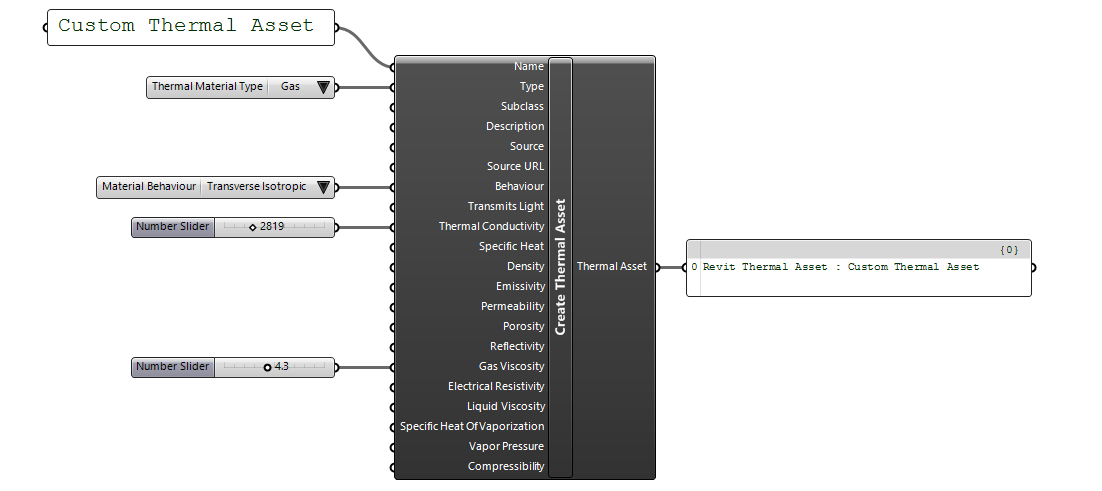
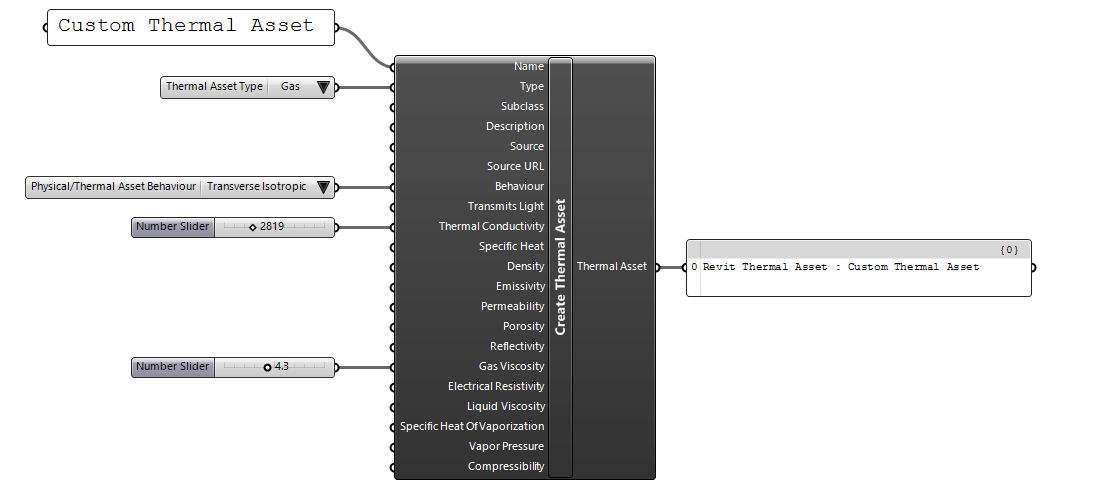
corrected the value picker names for physcial and thermal assets

Changed region(s): [[0.0, 0.3666, 0.1234, 0.4277], [0.1234, 0.1527, 0.216, 0.2138]]

diff --git a/src/RhinoInside.Revit.GH/Parameters/StructuralAssetBehaviour_ValueList.cs b/src/RhinoInside.Revit.GH/Parameters/StructuralAssetBehaviour_ValueList.cs
@@ -15,8 +15,8 @@ namespace RhinoInside.Revit.GH.Parameters
     {
       Category = "Revit";
       SubCategory = "Material";
-      Name = "Material Behaviour";
-      NickName = "PAMB";
+      Name = "Physical/Thermal Asset Behaviour";
+      NickName = "PTMB";
       Description = "Picker material behaviour options of physical or thermal assets";
 
       ListItems.Clear();

diff --git a/src/RhinoInside.Revit.GH/Parameters/ThermalMaterialType_ValueList.cs b/src/RhinoInside.Revit.GH/Parameters/ThermalMaterialType_ValueList.cs
@@ -15,8 +15,8 @@ namespace RhinoInside.Revit.GH.Parameters
     {
       Category = "Revit";
       SubCategory = "Material";
-      Name = "Thermal Material Type";
-      NickName = "TMT";
+      Name = "Thermal Asset Type";
+      NickName = "TAMT";
       Description = "Picker for thermal material type options";
 
       ListItems.Clear();

diff --git a/src/RhinoInside.Revit.GH/Parameters/StructuralAssetClass_ValueList.cs b/src/RhinoInside.Revit.GH/Parameters/StructuralAssetClass_ValueList.cs
@@ -15,7 +15,7 @@ namespace RhinoInside.Revit.GH.Parameters
     {
       Category = "Revit";
       SubCategory = "Material";
-      Name = "Physical Material Type";
+      Name = "Physical Asset Type";
       NickName = "PAMT";
       Description = "Picker for physical material type options";
 
